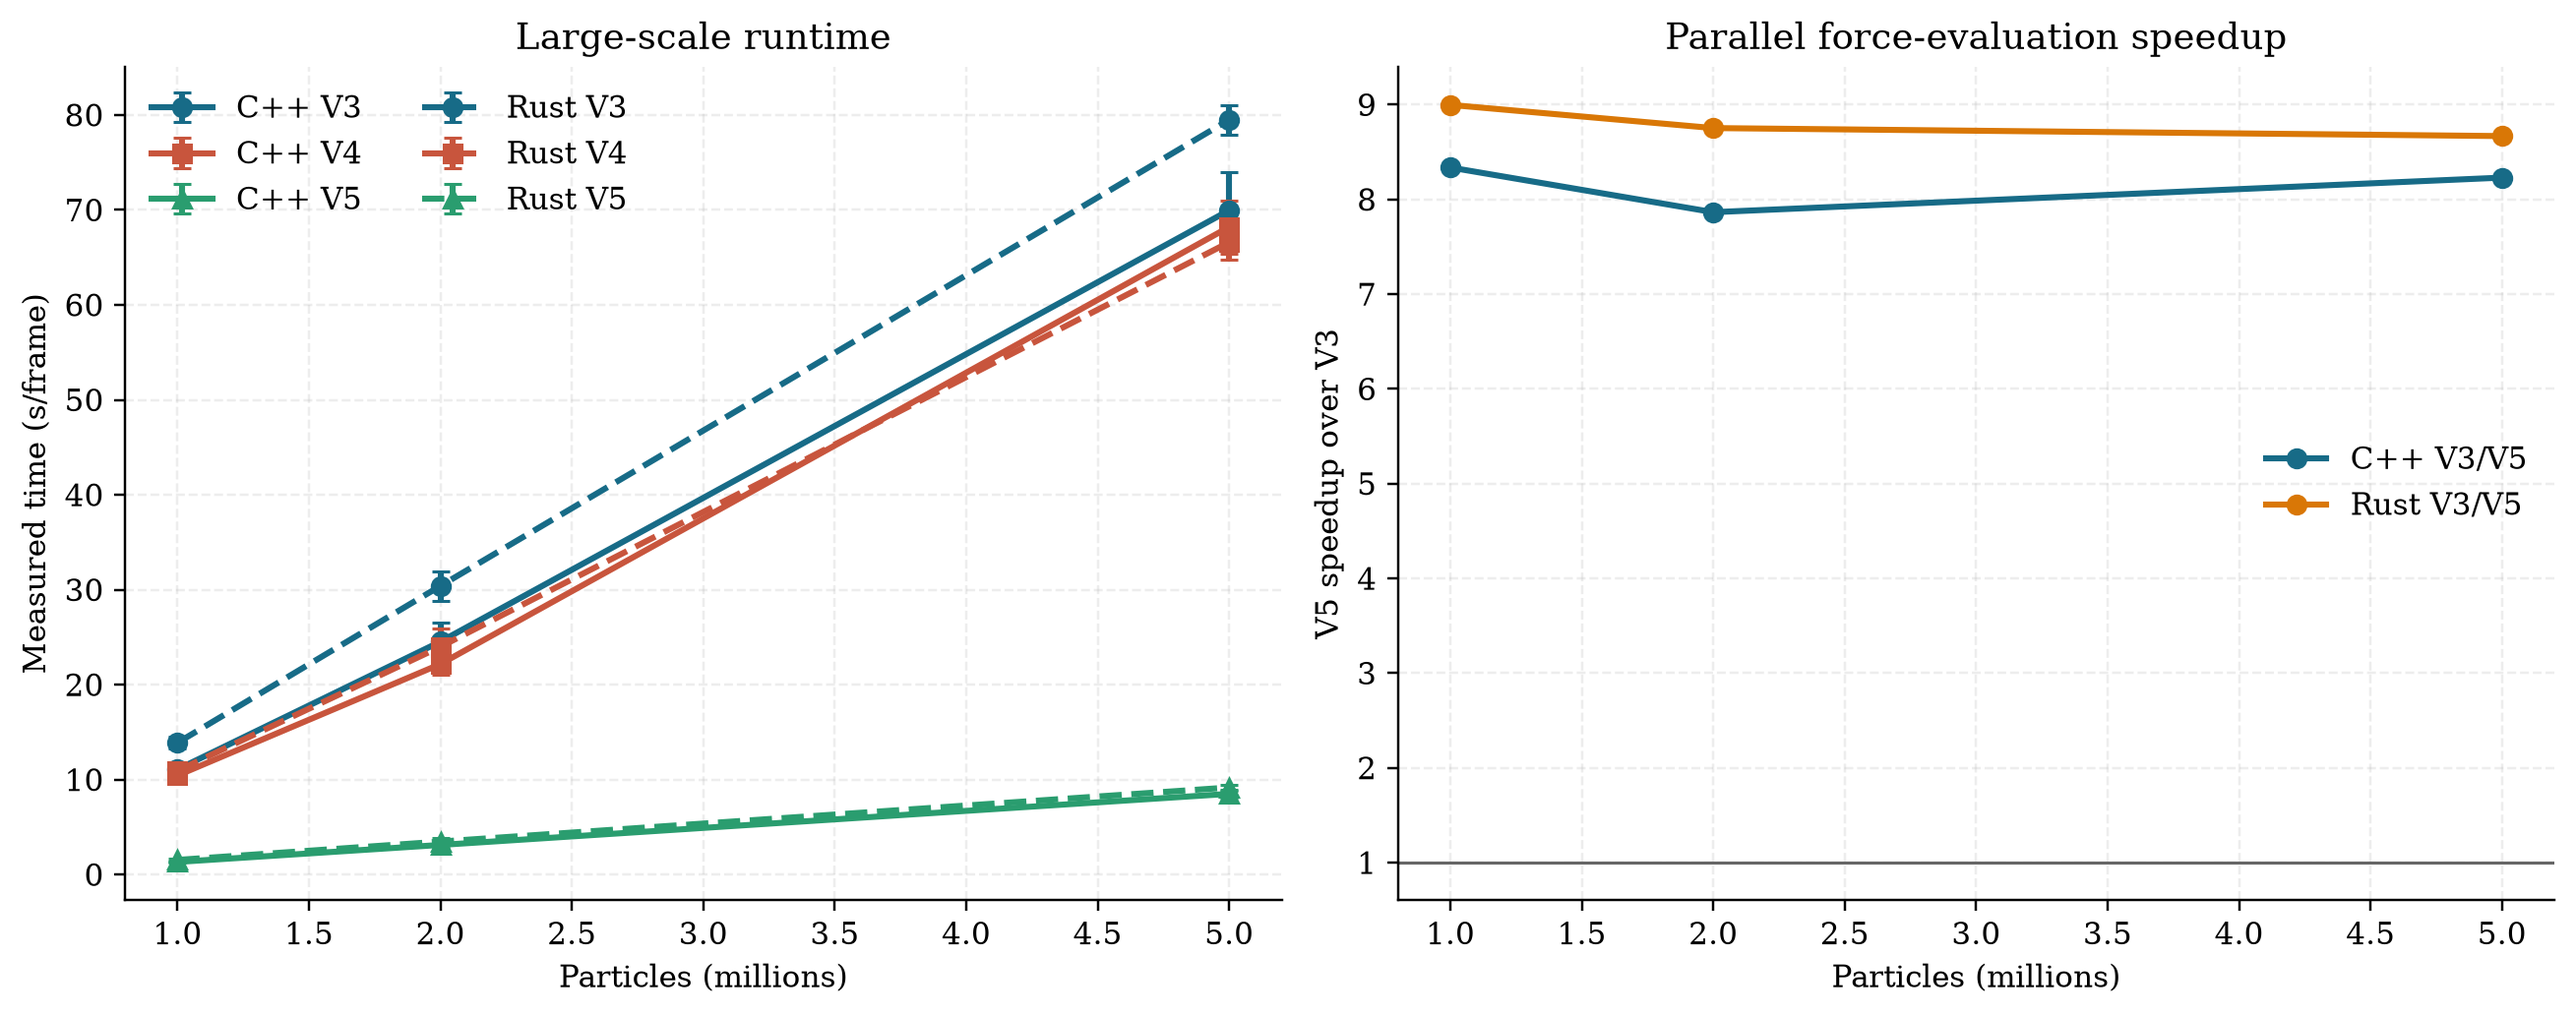
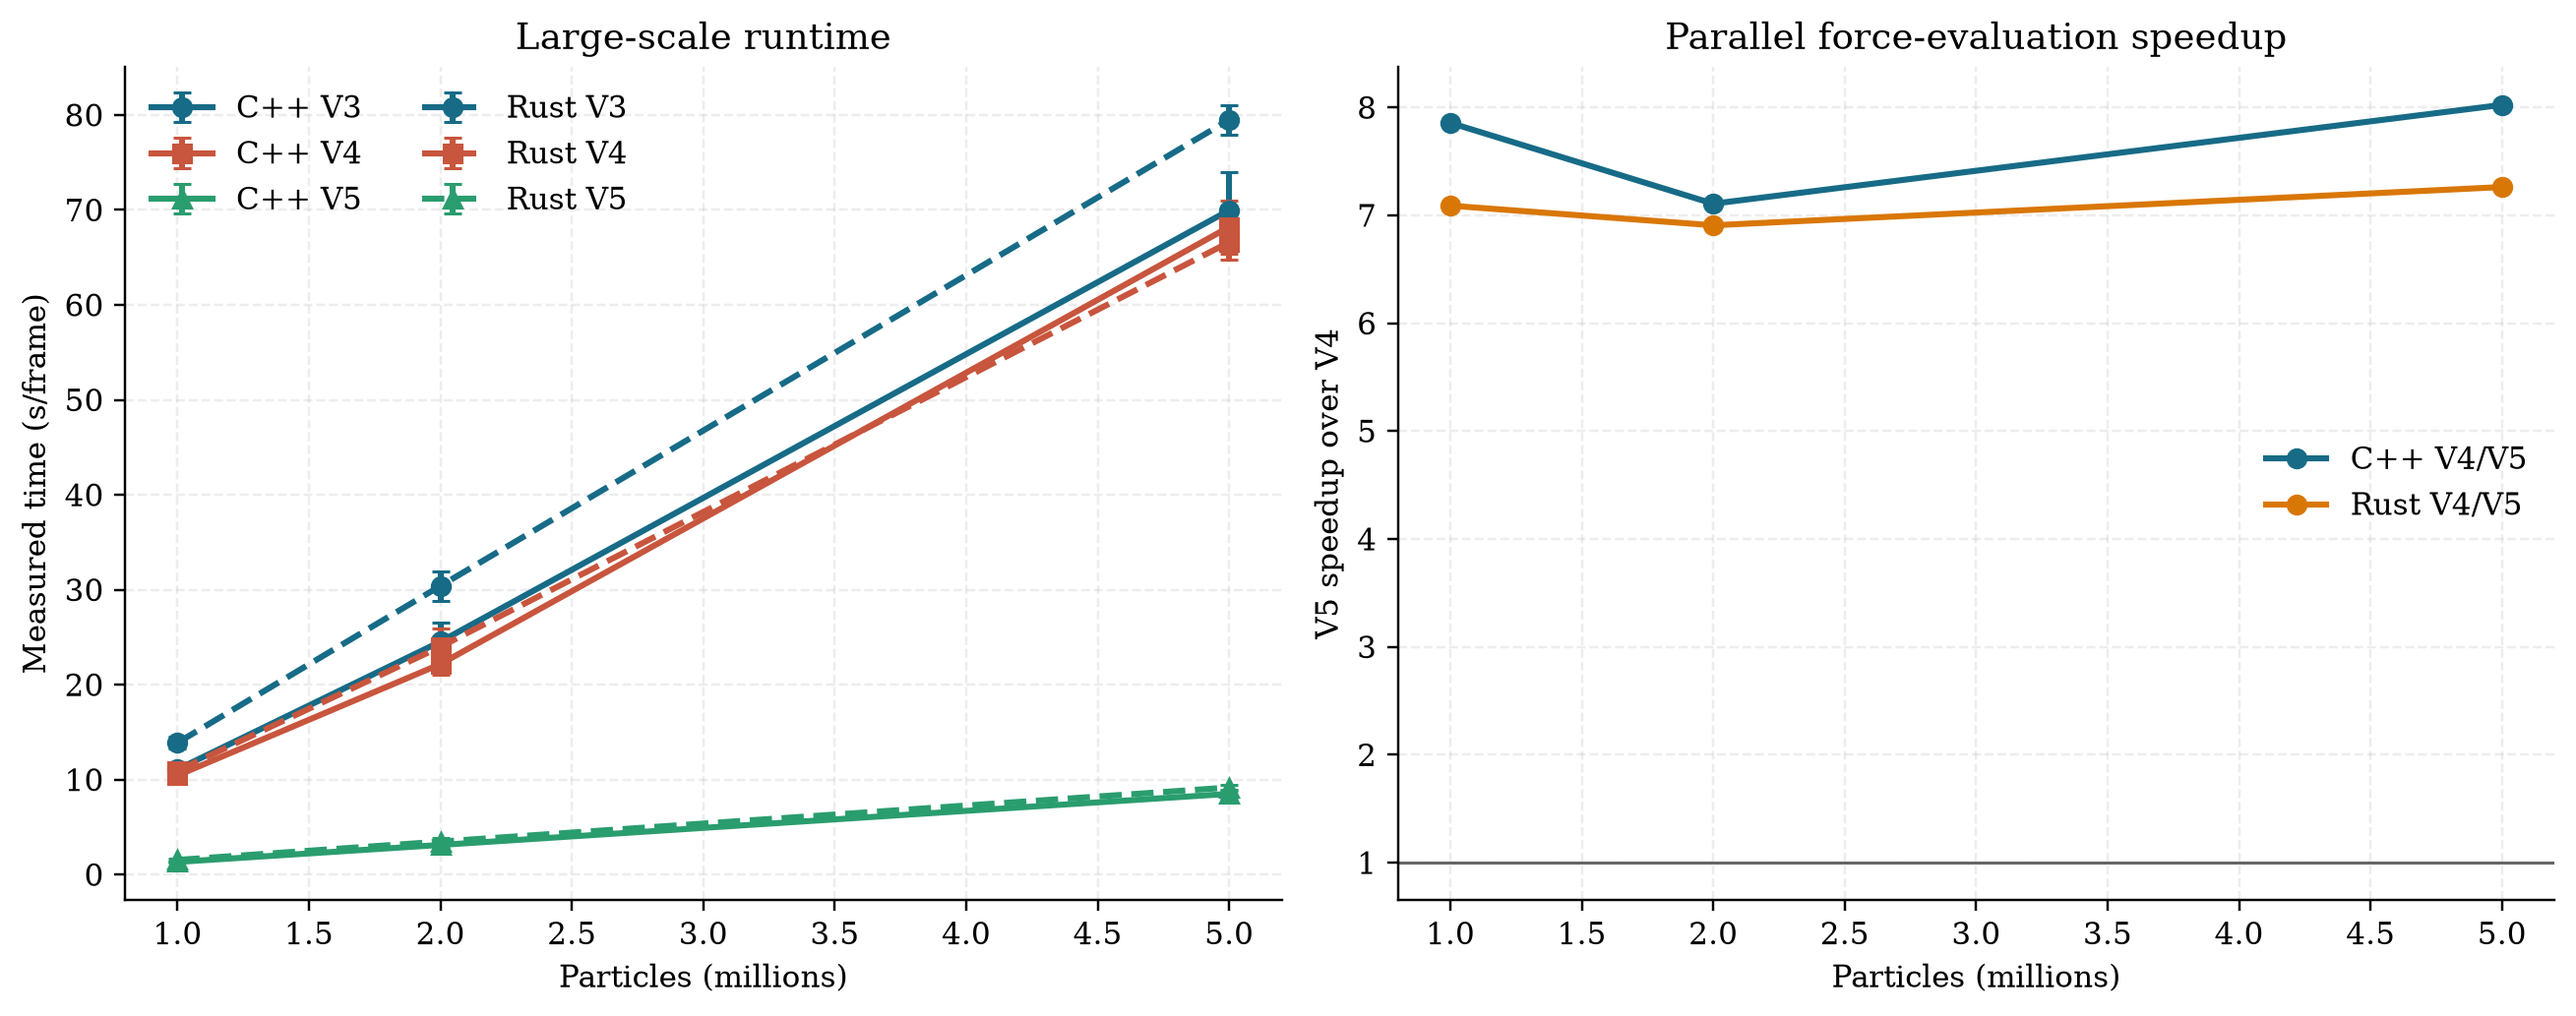
Prepare v1.1.4 archival reproducibility update

Changed region(s): [[0.526, 0.0929, 0.9901, 0.2478], [0.526, 0.7435, 0.5569, 0.7744]]

diff --git a/scripts/plot_manuscript_figures.py b/scripts/plot_manuscript_figures.py
@@ -200,10 +200,10 @@ def plot_figure_3(root: Path, output: Path) -> None:
 
     for language in ("cpp", "rust"):
         particle_counts = sorted(
-            int(key[2]) for key in stats if key[0] == language and key[1] == "v3"
+            int(key[2]) for key in stats if key[0] == language and key[1] == "v4"
         )
         speedups = [
-            stats[(language, "v3", str(count))][0] / stats[(language, "v5", str(count))][0]
+            stats[(language, "v4", str(count))][0] / stats[(language, "v5", str(count))][0]
             for count in particle_counts
         ]
         axes[1].plot(
@@ -212,11 +212,11 @@ def plot_figure_3(root: Path, output: Path) -> None:
             marker="o",
             linewidth=2,
             color=COLORS[language],
-            label="C++ V3/V5" if language == "cpp" else "Rust V3/V5",
+            label="C++ V4/V5" if language == "cpp" else "Rust V4/V5",
         )
     axes[1].axhline(1.0, color="#666666", linewidth=1)
     axes[1].set_xlabel("Particles (millions)")
-    axes[1].set_ylabel("V5 speedup over V3")
+    axes[1].set_ylabel("V5 speedup over V4")
     axes[1].set_title("Parallel force-evaluation speedup")
     axes[1].legend(frameon=False)
 

diff --git a/README.md b/README.md
@@ -1,6 +1,6 @@
 # BHBench-CR
 
-[![DOI](https://zenodo.org/badge/DOI/10.5281/zenodo.22112969.svg)](https://doi.org/10.5281/zenodo.22112969)
+[![Archived DOI (v1.1.2)](https://zenodo.org/badge/DOI/10.5281/zenodo.22112969.svg)](https://doi.org/10.5281/zenodo.22112969)
 
 BHBench-CR is a C++/Rust benchmark suite for two-dimensional Barnes-Hut N-body solver variants. It is intended for reproducible implementation experiments, teaching, and comparative studies of data layout, traversal strategy, and the way matched solver strategies are expressed in C++/OpenMP and Rust/Rayon.
 
@@ -32,6 +32,7 @@ The software is not intended to be a production astrophysical simulator or a sta
     CMakeLists.txt        CMake build configuration for C++
     CITATION.cff          Citation metadata
     LICENSE               MIT license
+    Licence.txt           Identical license copy for SoftwareX packaging
 
 ## Solver variants
 
@@ -45,13 +46,20 @@ The intended SoftwareX scope and limitations are described in:
 
 ## Benchmark data
 
-The v1.1.3 manuscript results are generated as one row per independent process,
-with separate raw data, summaries, logs, and environment metadata. The old
+The v1.1.3 measurement campaign distributed with v1.1.4 contains one row per
+independent process, with separate raw data, summaries, logs, and environment
+metadata. The old
 aggregate-only workbook is retained solely for provenance at:
 
     results/historical/Results_data_v1.0_historical.xlsx
 
-It is not used to generate the v1.1.3 manuscript figures.
+It is not used to generate the current manuscript figures.
+
+The byte-identical publication inputs are distributed as a separate archival
+asset with `SHA256SUMS`. The generator is deterministic within the recorded
+toolchain, but different math-library implementations can produce last-bit
+differences in generated coordinates across platforms. See
+`results/manuscript/v1.1.3/README.md` and `PROVENANCE.md` in that directory.
 
 ## C++ source files
 
@@ -162,12 +170,14 @@ The author list is provided in:
 This project is distributed under the MIT License. See:
 
     LICENSE
+    Licence.txt
 
 ## Citation
 
 If you use this software, please cite the associated SoftwareX article and the
-software release matching the results. The latest public archive before the
-v1.1.3 release is v1.1.2:
+software release matching the results. The DOI below identifies the previous
+archived release, v1.1.2; the version-specific v1.1.4 DOI will replace it when
+the new Zenodo record is published:
 
     https://doi.org/10.5281/zenodo.22112969
 

diff --git a/docs/reproducing_results.md b/docs/reproducing_results.md
@@ -1,7 +1,7 @@
 # Reproducing the benchmark results
 
-The v1.1.3 article uses raw process-level measurements generated by the
-scripts below. The historical aggregate workbook is not used.
+The article uses the v1.1.3 raw process-level measurement campaign distributed
+with release v1.1.4. The historical aggregate workbook is not used.
 
 The repository contains both C++ and Rust implementations of the same two-dimensional Barnes-Hut benchmark workload.
 
@@ -32,17 +32,19 @@ From the repository root, run:
 
 ## Requirements
 
-The full workflow requires Bash, CMake 3.16 or newer, a C++17 compiler with
-OpenMP, Rust/Cargo, Python 3, and Matplotlib. The large-scale experiment requires
-substantial RAM and can take several hours.
+The full workflow requires Bash 4 or newer, CMake 3.16 or newer, a C++17
+compiler with OpenMP, Rust/Cargo 1.85 or newer, Python 3, and Matplotlib. The
+large-scale experiment requires substantial RAM and can take several hours.
 
 Install the pinned plotting dependency with:
 
     python -m pip install -r requirements.txt
 
-The Windows CI job verifies C++ and Rust builds. The complete scientific and
-standalone-archive test workflow runs on Linux, which is the supported reference
-environment for the publication scripts.
+The publication campaign was executed on Windows 11 through MSYS2 with the
+toolchain recorded in each `environment.json`. The Windows CI job verifies C++
+and Rust builds. The complete scientific and standalone-archive test workflow
+runs on Linux, which is the reference CI environment for the publication
+scripts.
 
 ## Input-data generation
 
@@ -92,9 +94,12 @@ The constituent scripts can also be run separately:
     python scripts/plot_manuscript_figures.py \
       "$output" "$output/figures"
 
-The scripts generate deterministic inputs, but large generated input files are
-not versioned. Their seed, particle count, and SHA-256 hash are recorded in each
-`environment.json` file.
+The scripts generate deterministic inputs within the recorded toolchain, but
+platform math-library implementations can differ in the last bits of `sqrt`,
+`sin`, `cos`, or text conversion. Large inputs are therefore not versioned in
+Git. The exact files used by the publication campaign are preserved in the
+companion Zenodo input archive with `SHA256SUMS`; the same hashes are recorded in
+each `environment.json` file.
 
 ## Numerical regression
 

diff --git a/docs/benchmark_protocol.md b/docs/benchmark_protocol.md
@@ -75,7 +75,18 @@ interprocedural optimization. The parallel force-evaluation variant uses OpenMP.
 ## Rust implementation
 
 The Rust implementation uses release-mode builds with LTO and one code-generation
-unit. The parallel force-evaluation variant uses Rayon.
+unit. Rust 1.85 or newer is required by edition 2024. The parallel
+force-evaluation variant uses Rayon.
+
+## Cross-language alignment
+
+The C++ and Rust variants match the numerical model, input, solver progression,
+parameters, timing boundaries, and benchmark protocol. Their object layouts are
+not byte-identical: C++ arena indices use `int`, Rust arena indices use `usize`,
+and the idiomatic parallel implementations differ in how force results are
+buffered and committed. Reported C++/Rust timings are therefore end-to-end
+implementation comparisons, not isolated measurements of language syntax,
+memory safety, bounds checks, or one runtime feature.
 
 ## Result data
 
@@ -111,7 +122,9 @@ Compared points within an experiment use the same input, warm-up count, measured
 frame count, repeat count, and thread policy. Configuration order is reshuffled
 within every repeat to distribute thermal or frequency drift across
 implementations. Defaults are embedded in each script and are also written into
-the result metadata.
+the result metadata. The shuffle is reproducible but does not force every
+configuration to occupy every block position equally when repeat counts are
+small.
 
 ## Reproducibility notes
 
@@ -122,3 +135,7 @@ series. Force snapshots and `scripts/numerical_regression.sh` provide a separate
 deterministic correctness check for V2-V5 against direct summation in both
 languages. The suite covers 8- and 256-particle inputs, theta values 0.3 and 0.7,
 unequal masses, coincident positions, and a high-theta self-interaction case.
+
+The v1.1.3 publication campaign was executed on Windows 11 through MSYS2. Linux
+is the full CI and standalone-archive test environment; it is not the source of
+the reported timing series.

diff --git a/results/manuscript/v1.1.3/README.md b/results/manuscript/v1.1.3/README.md
@@ -20,8 +20,20 @@ host. No measurements from another machine or release are included.
 Each result set contains raw process-level rows, sample-statistics summaries,
 individual logs, and `environment.json`. Figure 1 also contains force dumps and
 direct-summation error metrics. Generated input files are omitted from Git
-because they are deterministically recreated by the workflow; each environment
-record stores the generated input's SHA-256 hash.
+because they are large. The generator is deterministic within the recorded
+toolchain, but platform math-library and floating-point text conversion can
+change the final bytes. The exact publication inputs are therefore distributed
+as a companion Zenodo asset. Each environment record stores the corresponding
+SHA-256 hash:
+
[5 lines of base64/hex data omitted]
+
+See `PROVENANCE.md` for the relationship between the measurement commit and
+the release commit.
 
 ## Reproduction
 

diff --git a/docs/software_metadata.md b/docs/software_metadata.md
@@ -6,9 +6,10 @@ BHBench-CR
 
 ## Prepared release
 
-- Version: 1.1.3
-- GitHub release target: https://github.com/Pawel-Kosinski/cpp-rust-barnes-hut/releases/tag/v1.1.3
-- Latest public archive before v1.1.3: https://doi.org/10.5281/zenodo.22112969 (v1.1.2)
+- Version: 1.1.4
+- GitHub release target: https://github.com/Pawel-Kosinski/cpp-rust-barnes-hut/releases/tag/v1.1.4
+- Benchmark data: v1.1.3 campaign generated from commit `ab17547228b0f7440793c9014bfda41d076a239e`
+- Zenodo archive: version-specific DOI to be assigned before publication
 
 ## Purpose
 
@@ -17,7 +18,7 @@ BHBench-CR is a C++/Rust benchmark suite for two-dimensional Barnes-Hut N-body s
 ## Languages
 
 - C++17
-- Rust
+- Rust 1.85 or newer (edition 2024)
 
 ## Parallel frameworks
 
@@ -32,6 +33,7 @@ BHBench-CR is a C++/Rust benchmark suite for two-dimensional Barnes-Hut N-body s
 - Documentation in `docs/`
 - Build helper scripts in `scripts/`
 - Pinned plotting dependency in `requirements.txt`
+- Byte-identical publication inputs in the companion Zenodo asset
 
 ## Intended use
 

diff --git a/results/manuscript/v1.1.3/PROVENANCE.md b/results/manuscript/v1.1.3/PROVENANCE.md
@@ -1,0 +1,19 @@
+# Measurement provenance
+
+The v1.1.3 publication measurements were generated from commit
+`ab17547228b0f7440793c9014bfda41d076a239e`. Every `environment.json` and raw CSV
+row records that commit.
+
+The v1.1.3 GitHub release points to merge commit
+`32a27f73351786448cb5a44e0fa34c7e1e673371`. Between the measurement and release
+commits, the solver sources, input generator, CMake and Cargo release profiles,
+summary-statistics script, and manuscript plotting formulas were unchanged.
+The intervening changes added the recorded result files and documentation,
+allowed `collect_environment.py` to honor `CMAKE_COMMAND`, and added a validated
+`--resume` path to the runner. A fresh non-resumed run retained the measurement
+protocol and executable invocations.
+
+Release v1.1.4 corrects only the interpretation and plotting of V4/V5 parallel
+speedup, adds archival input documentation, and updates packaging metadata. It
+does not alter the recorded timings or claim that they were regenerated from a
+later commit.

diff --git a/CHANGELOG.md b/CHANGELOG.md
@@ -1,6 +1,14 @@
 # Changelog
 
-## 1.1.3 - unreleased
+## 1.1.4 - unreleased
+
+- Corrected the parallel force-evaluation speedup to compare serial V4 with parallel V5.
+- Documented the exact provenance of the v1.1.3 measurement campaign.
+- Prepared byte-identical publication inputs and a SHA-256 manifest for archival.
+- Clarified cross-platform generator reproducibility and C++/Rust representation differences.
+- Declared the minimum Rust version and added the SoftwareX-compatible `Licence.txt` copy.
+
+## 1.1.3 - 2026-08-27
 
 - Prevented Barnes-Hut nodes that contain the target particle from being accepted as aggregates.
 - Added exact leaf handling for coincident particles without modifying their input positions.
